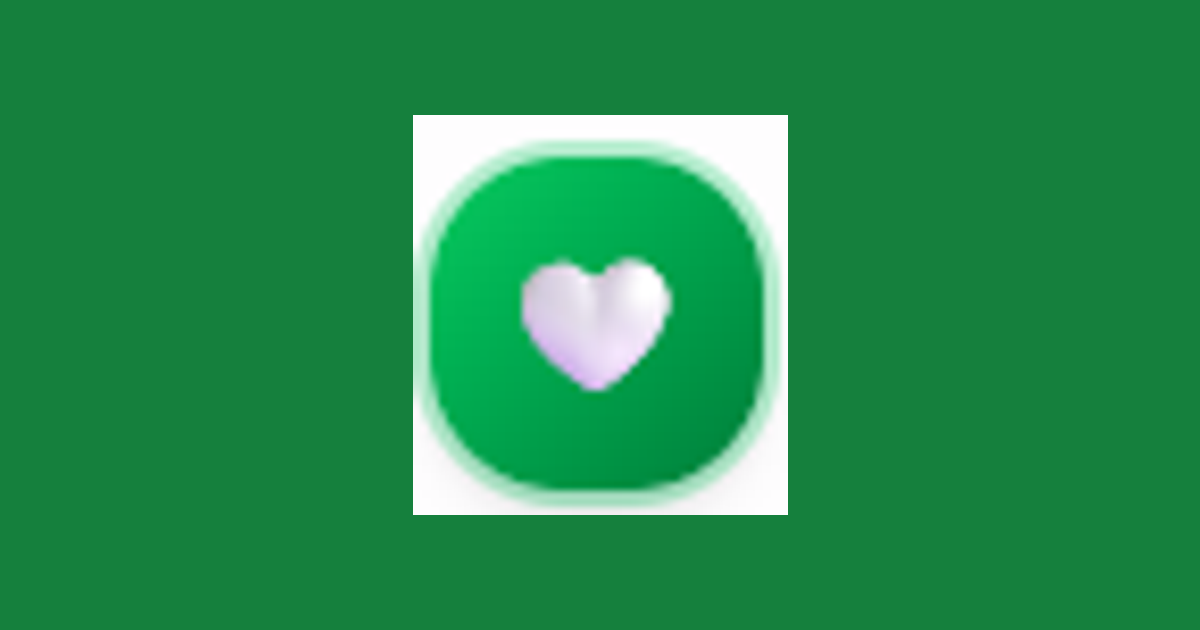
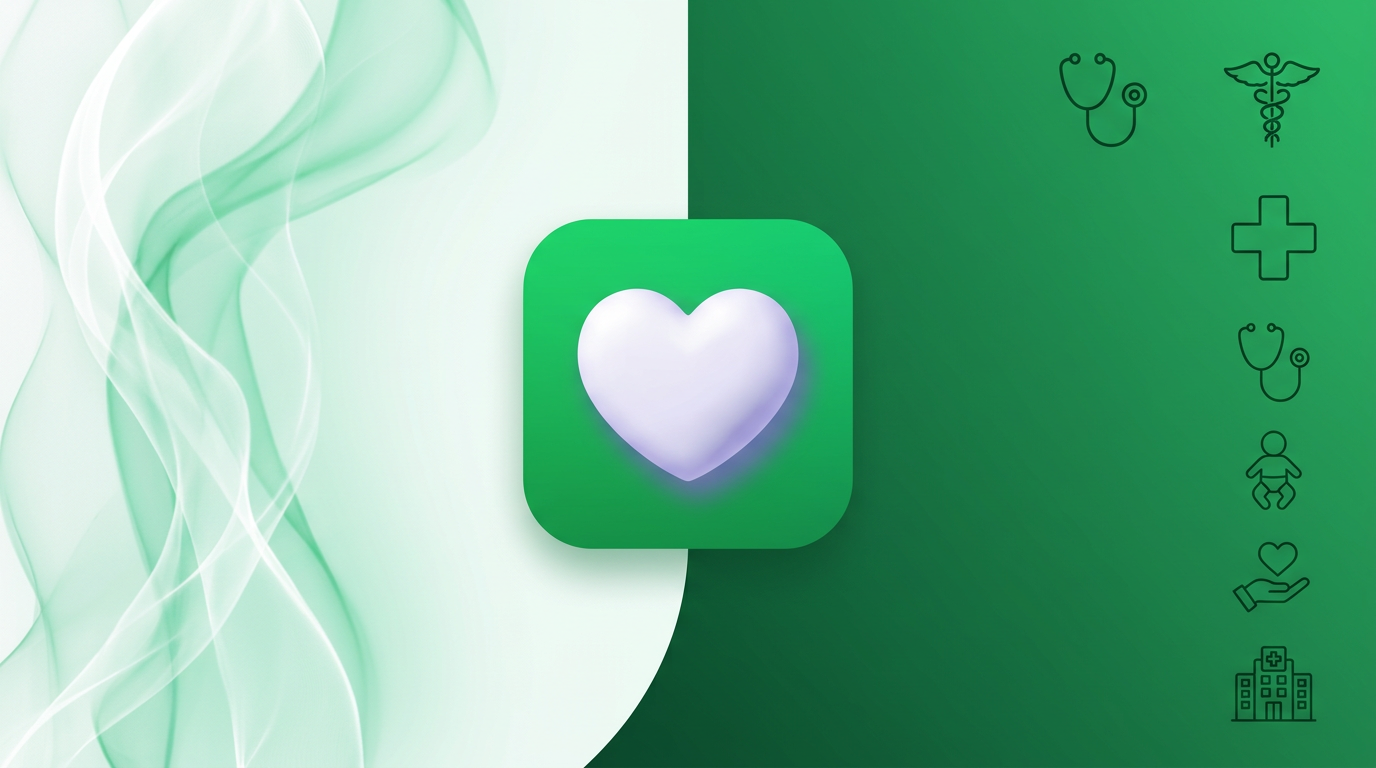
update

diff --git a/src/constants/site-metadata.constants.ts b/src/constants/site-metadata.constants.ts
@@ -21,7 +21,8 @@ function publicSiteUrl(): string {
 /** Favicon, manifest, logo Schema — `public/assets/ivf-heart-brand.png` */
 const SITE_LOGO_PATH = '/assets/ivf-heart-brand.png'
 /**
- * Ảnh chia sẻ 1200×630 — `npm run og:generate` từ logo (Messenger / Facebook / Zalo cần kích thước đủ lớn).
+ * Ảnh Open Graph — `public/assets/og-share.png` (Facebook / Messenger / Zalo).
+ * Thay file: cập nhật `siteOgImageWidth` / `siteOgImageHeight` cho khớp kích thước thật.
  */
 const SITE_OG_IMAGE_PATH = '/assets/og-share.png'
 
@@ -53,9 +54,9 @@ export const SITE_METADATA = {
   /** Ảnh Open Graph / Zalo / Messenger (kích thước chuẩn link preview) */
   siteOgImagePath: SITE_OG_IMAGE_PATH,
   siteOgImage: `${SITE_URL}${SITE_OG_IMAGE_PATH}`,
-  /** Kích thước file `og-share.png` sau `og:generate` */
-  siteOgImageWidth: 1200,
-  siteOgImageHeight: 630,
+  /** Kích thước thật của `og-share.png` (ảnh banner chia sẻ) */
+  siteOgImageWidth: 1376,
+  siteOgImageHeight: 768,
   email: 'hello@example.com',
   keywords: [
     'tâm sự IVF',
